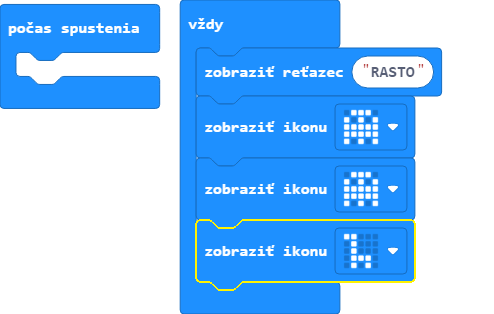
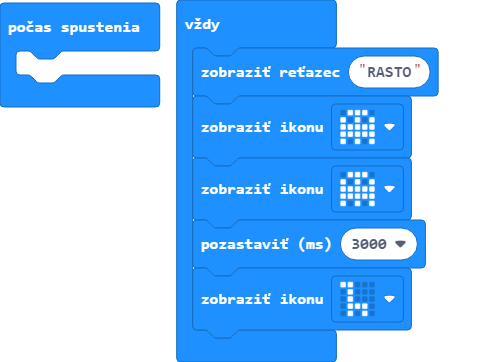
Update main.blocks, main.ts, main.py

Changed region(s): [[0.0, 0.0, 0.9184, 1.0]]

diff --git a/main.ts b/main.ts
@@ -2,5 +2,6 @@ basic.forever(function () {
     basic.showString("RASTO")
     basic.showIcon(IconNames.Ghost)
     basic.showIcon(IconNames.Ghost)
+    basic.pause(3000)
     basic.showIcon(IconNames.Giraffe)
 })

diff --git a/main.py b/main.py
@@ -1,3 +1,7 @@
 def on_forever():
-    pass
+    basic.show_string("RASTO")
+    basic.show_icon(IconNames.GHOST)
+    basic.show_icon(IconNames.GHOST)
+    basic.pause(3000)
+    basic.show_icon(IconNames.GIRAFFE)
 basic.forever(on_forever)
